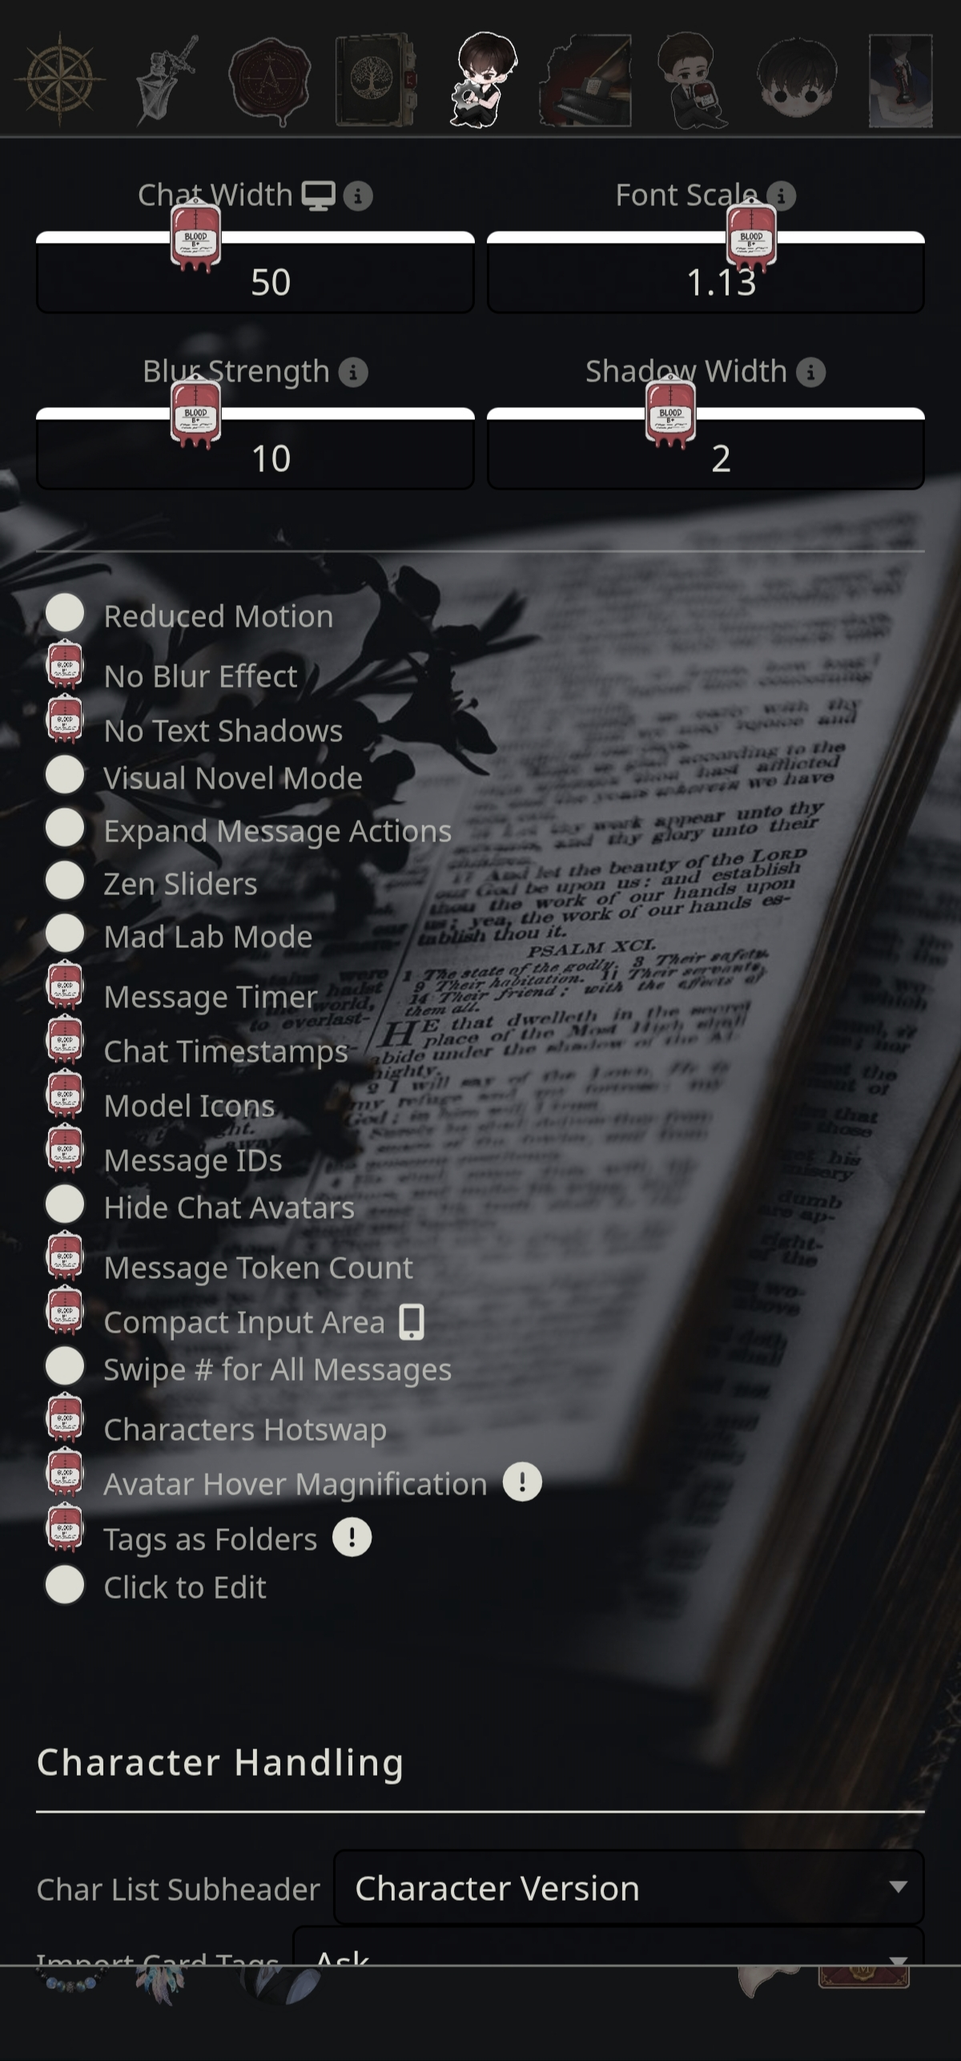
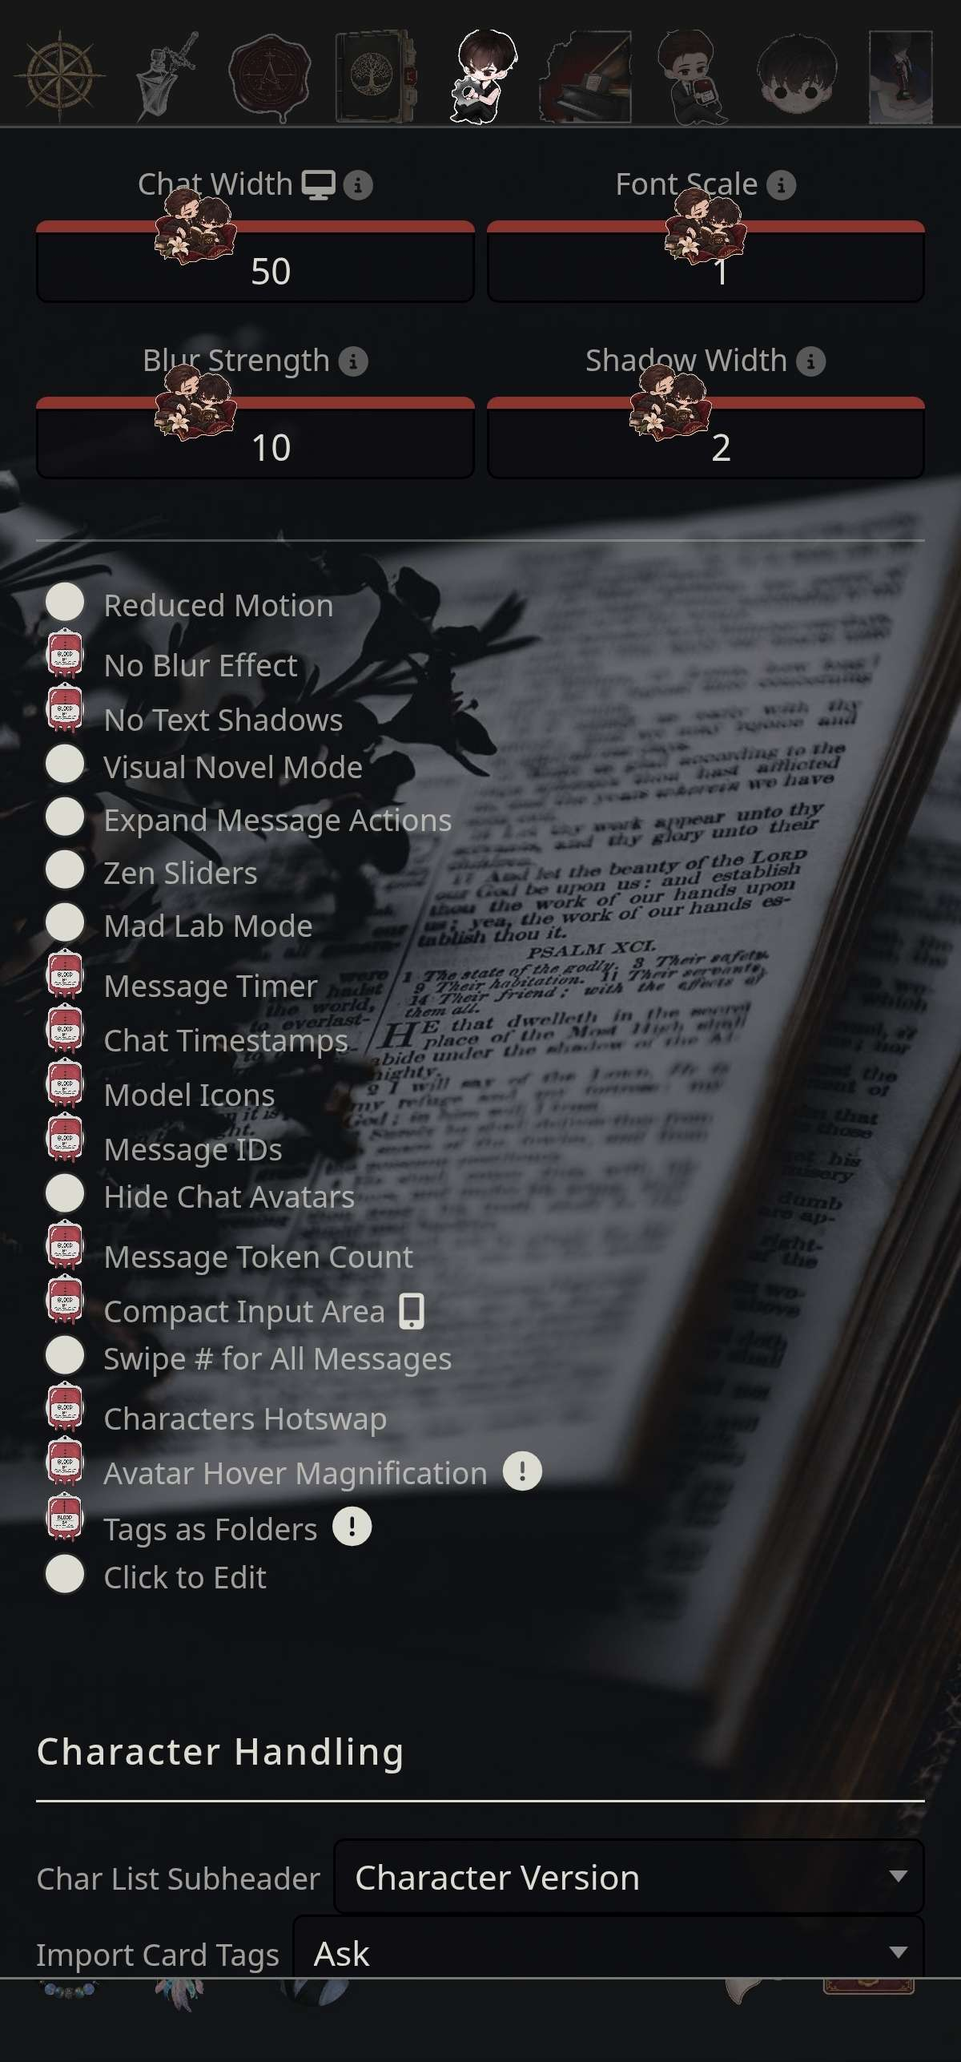
add more colour setting in panel & etc
- colour setting
- gap variable for input area
- example screenshot

diff --git a/index.js b/index.js
@@ -37,20 +37,44 @@ const DEFAULT_LOOK = {
     customBgColor2: 'rgba(255, 255, 255, 0.05)',
     customTopBarColor: 'rgba(20, 20, 20, 0.83)',
     'Drawer-iconColor': 'rgba(255, 255, 255, 0.8)',
-    sheldBackgroundColor: 'rgba(0, 0, 0, 0.2)',
+    SmartThemeBodyColor: 'rgba(220, 220, 210, 1)',
+    arChatTextColor: 'rgba(220, 220, 210, 1)',
+    SmartThemeEmColor: 'rgba(145, 145, 145, 1)',
+    SmartThemeQuoteColor: 'rgba(146, 151, 196, 1)',
+    SmartThemeUserMesBlurTintColor: 'rgba(30, 30, 30, 0.9)',
+    SmartThemeBotMesBlurTintColor: 'rgba(30, 30, 30, 0.9)',
     customWhisperAvatarWidth: '50%',
     customWhisperAvatarAlign: 'top',
     hideAvatarBorder: false,
 };
+/* [key, label, hint, settings tab]. The SmartTheme* keys replace the same
+   colours in SillyTavern's Theme Colors while the theme is on (those rows are
+   hidden there). arChatTextColor is the chat's own copy of the main text colour. */
 const LOOK_COLORS = [
-    ['customThemeColor', 'Primary Theme Color', 'Highlights and accents across the interface'],
-    ['customThemeColor2', 'Secondary Theme Color', 'A second accent for special highlights'],
-    ['customBgColor1', 'Main Background Color', 'Menus and buttons'],
-    ['customBgColor2', 'Secondary Background Color', 'Quieter menus and buttons'],
-    ['customTopBarColor', 'Top Bar Color', 'The bar of icons at the top'],
-    ['Drawer-iconColor', 'Icon Color', 'Top bar and message box icons that have no picture'],
-    ['sheldBackgroundColor', 'Chat Background Color', 'The panel behind the chat messages'],
+    ['customThemeColor', 'Primary Theme Color', 'Highlights and accents across the interface', 'ui'],
+    ['customThemeColor2', 'Secondary Theme Color', 'A second accent for special highlights', 'ui'],
+    ['customBgColor1', 'Main Background Color', 'Menus and buttons', 'ui'],
+    ['customBgColor2', 'Secondary Background Color', 'Quieter menus and buttons', 'ui'],
+    ['customTopBarColor', 'Top Bar Color', 'The bar of icons at the top', 'ui'],
+    ['Drawer-iconColor', 'Icon Color', 'Top bar and message box icons that have no picture', 'ui'],
+    ['SmartThemeBodyColor', 'Interface Text', 'Text in menus, panels and popups', 'ui'],
+    ['arChatTextColor', 'Chat Text', 'Normal text in chat messages', 'chat'],
+    ['SmartThemeEmColor', 'Italic Text', '*Actions* and other italic text', 'chat'],
+    ['SmartThemeQuoteColor', 'Quote Text', '"Speech" in quotation marks', 'chat'],
+    ['SmartThemeUserMesBlurTintColor', 'User Message', 'The box behind your messages', 'chat'],
+    ['SmartThemeBotMesBlurTintColor', 'AI Message', "The box behind the character's messages", 'chat'],
 ];
+/* These colours used to come from SillyTavern's Theme Colors. When a preset
+   has no value for one (first run after updating, or an older preset), the
+   user's own SillyTavern colour is used instead of the built-in default. */
+const FROM_ST = {
+    SmartThemeBodyColor: 'main_text_color',
+    arChatTextColor: 'main_text_color',
+    SmartThemeEmColor: 'italics_text_color',
+    SmartThemeQuoteColor: 'quote_text_color',
+    SmartThemeUserMesBlurTintColor: 'user_mes_blur_tint_color',
+    SmartThemeBotMesBlurTintColor: 'bot_mes_blur_tint_color',
+};
 const WHISPER_ALIGN = ['top', 'center', 'bottom'];
 const PRESET_FILE_PREFIX = '[AR] ';
 
@@ -81,7 +105,7 @@ function getSettings() {
     if (!s.presets || typeof s.presets !== 'object' || Array.isArray(s.presets)) s.presets = {};
     delete s.presets[DEFAULT_PRESET]; // the built-in one always comes from the code
     if (s.activePreset !== DEFAULT_PRESET && !Object.hasOwn(s.presets, s.activePreset)) s.activePreset = DEFAULT_PRESET;
-    s.look = cleanLook(s.look, DEFAULT_LOOK);
+    s.look = cleanLook(s.look, lookBase());
     return s;
 }
 
@@ -415,6 +439,8 @@ async function exportToastStyle() {
      --function-control-icon  checked checkbox + slider thumb (one picture for both)
      --function-slider-icon   slider thumb only    (wins over the shared one)
      --function-checkbox-icon checked checkbox only (wins over the shared one)
+     --function-slider-track  slider track colour (white if unset)
+     --input-icon-gap         space between message box buttons (12px if unset)
      --topbar-icon-*          the nine top-bar icons
      --input-icon-*           the buttons around the message box
 
@@ -458,6 +484,18 @@ function syncCustomVars() {
         const source = has(own) ? own : (shared ? '--function-control-icon' : '');
         document.body.classList.toggle(cls, on && !!source);
         const wanted = on && source ? `var(${source})` : '';
+        if (document.body.style.getPropertyValue(target) !== wanted) {
+            if (wanted) document.body.style.setProperty(target, wanted);
+            else document.body.style.removeProperty(target);
+        }
+    }
+
+    // slider track colour + message box button gap: only when set and not "none"
+    for (const [own, target] of [
+        ['--function-slider-track', '--mg-slider-track'],
+        ['--input-icon-gap', '--mg-input-gap'],
+    ]) {
+        const wanted = on && has(own) ? `var(${own})` : '';
         if (document.body.style.getPropertyValue(target) !== wanted) {
             if (wanted) document.body.style.setProperty(target, wanted);
             else document.body.style.removeProperty(target);
@@ -787,6 +825,19 @@ function cleanLook(source, base) {
     return look;
 }
 
+/* Where a missing value comes from: the built-in default, or for the FROM_ST
+   colours the user's own SillyTavern colour. */
+function lookBase() {
+    const base = Object.assign({}, DEFAULT_LOOK);
+    const power = SillyTavern.getContext().powerUserSettings;
+    if (!power) return base;
+    for (const [key, name] of Object.entries(FROM_ST)) {
+        const value = safeCssValue(power[name], null);
+        if (value) base[key] = value;
+    }
+    return base;
+}
+
 function allPresets() {
     return Object.assign({ [DEFAULT_PRESET]: DEFAULT_LOOK }, getSettings().presets);
 }
@@ -838,7 +889,7 @@ function loadPreset(name, quiet) {
     if (!Object.hasOwn(presets, name)) return false;
     const s = getSettings();
     s.activePreset = name;
-    s.look = cleanLook(presets[name], DEFAULT_LOOK);
+    s.look = cleanLook(presets[name], lookBase());
     save();
     applyLook();
     syncSettingsUI();
@@ -911,7 +962,7 @@ async function importPresetFile(file) {
     if (Object.hasOwn(getSettings().presets, name) && !(await confirmBox(`A preset named "${name}" already exists. Replace it?`))) return;
 
     const s = getSettings();
-    s.presets[name] = cleanLook(data.settings, DEFAULT_LOOK);
+    s.presets[name] = cleanLook(data.settings, lookBase());
     save();
     loadPreset(name, true);
     toast('success', `Added preset "${name}".`);
@@ -1048,30 +1099,28 @@ function addSettingsPanel() {
                     <input type="file" id="mg_preset_file" accept=".json,application/json" hidden>
                     <div id="mg_preset_state" class="mg-set-state" hidden></div>
 
-                    <div class="mg-set-row mg-set-avatar">
-                        <label for="mg_whisper_width">Avatar width</label>
-                        <input type="text" id="mg_whisper_width" class="text_pole" placeholder="50%" autocomplete="off">
-                        <label for="mg_whisper_align">Position</label>
-                        <select id="mg_whisper_align" class="text_pole">
-                            <option value="top">Top</option>
-                            <option value="center">Center</option>
-                            <option value="bottom">Bottom</option>
-                        </select>
+                    <div class="mg-tabs" role="tablist">
+                        <div class="mg-tab menu_button" data-tab="ui" role="tab" tabindex="0">Interface</div>
+                        <div class="mg-tab menu_button" data-tab="chat" role="tab" tabindex="0">Chat</div>
                     </div>
-                    <label class="checkbox_label" for="mg_avatar_border"><input type="checkbox" id="mg_avatar_border"> <span>Hide avatar border</span></label>
 
-                    <div class="mg-set-colors">
-                        ${LOOK_COLORS.map(([key, label, hint]) => `
-                        <div class="mg-color" data-look="${key}">
-                            <b>${label}</b>
-                            <small>${hint}</small>
-                            <div class="mg-color-row">
-                                <toolcool-color-picker class="mg-color-pick" button-width="2.4rem" button-height="2.4rem" button-padding="0" color="${esc(DEFAULT_LOOK[key])}"></toolcool-color-picker>
-                                <input type="text" class="text_pole mg-color-hex" maxlength="60" spellcheck="false" autocapitalize="off" autocomplete="off" aria-label="${label}">
-                                <label class="mg-color-alpha"><span>Opacity</span><input type="range" min="0" max="100" step="1"></label>
-                                <span class="mg-color-num"></span>
-                            </div>
-                        </div>`).join('')}
+                    <div class="mg-tab-panel" data-panel="ui">
+                        <div class="mg-set-colors">${colorRows('ui')}</div>
+                    </div>
+
+                    <div class="mg-tab-panel" data-panel="chat">
+                        <div class="mg-set-row mg-set-avatar">
+                            <label for="mg_whisper_width">Avatar width</label>
+                            <input type="text" id="mg_whisper_width" class="text_pole" placeholder="50%" autocomplete="off">
+                            <label for="mg_whisper_align">Position</label>
+                            <select id="mg_whisper_align" class="text_pole">
+                                <option value="top">Top</option>
+                                <option value="center">Center</option>
+                                <option value="bottom">Bottom</option>
+                            </select>
+                        </div>
+                        <label class="checkbox_label" for="mg_avatar_border"><input type="checkbox" id="mg_avatar_border"> <span>Hide avatar border</span></label>
+                        <div class="mg-set-colors">${colorRows('chat')}</div>
                     </div>
 
                     <div class="mg-set-note">
@@ -1111,8 +1160,8 @@ function addSettingsPanel() {
         toast('info', 'This is how notifications look now.');
     });
 
-    const onTap = (id, fn) => {
-        const el = $(id);
+    const onTap = (target, fn) => {
+        const el = typeof target === 'string' ? $(target) : target;
         el.addEventListener('click', fn);
         el.addEventListener('keydown', (event) => {
             if (event.key === 'Enter' || event.key === ' ') { event.preventDefault(); fn(); }
@@ -1225,7 +1274,37 @@ function addSettingsPanel() {
     $('mg_whisper_align').addEventListener('change', (event) => setLook('customWhisperAvatarAlign', event.target.value));
     $('mg_avatar_border').addEventListener('change', (event) => setLook('hideAvatarBorder', event.target.checked));
 
+    for (const el of document.querySelectorAll('#mg_settings .mg-tab')) onTap(el, () => showTab(el.dataset.tab));
+    showTab(openTab);
+
     syncSettingsUI();
+}
+
+/* The colour rows of one settings tab. */
+function colorRows(tab) {
+    return LOOK_COLORS.filter(([, , , t]) => t === tab).map(([key, label, hint]) => `
+                        <div class="mg-color" data-look="${key}">
+                            <b>${label}</b>
+                            <small>${esc(hint)}</small>
+                            <div class="mg-color-row">
+                                <toolcool-color-picker class="mg-color-pick" button-width="2.4rem" button-height="2.4rem" button-padding="0" color="${esc(DEFAULT_LOOK[key])}"></toolcool-color-picker>
+                                <input type="text" class="text_pole mg-color-hex" maxlength="60" spellcheck="false" autocapitalize="off" autocomplete="off" aria-label="${label}">
+                                <label class="mg-color-alpha"><span>Opacity</span><input type="range" min="0" max="100" step="1"></label>
+                                <span class="mg-color-num"></span>
+                            </div>
+                        </div>`).join('');
+}
+
+/* Interface / Chat tabs in the settings panel. The open tab is kept until reload. */
+let openTab = 'ui';
+function showTab(tab) {
+    openTab = tab;
+    for (const el of document.querySelectorAll('#mg_settings .mg-tab')) {
+        const on = el.dataset.tab === tab;
+        el.classList.toggle('mg-tab-on', on);
+        el.setAttribute('aria-selected', String(on));
+    }
+    for (const el of document.querySelectorAll('#mg_settings .mg-tab-panel')) el.hidden = el.dataset.panel !== tab;
 }
 
 const lookSync = { busy: false, timer: 0 };
@@ -1259,7 +1338,7 @@ function syncLookState() {
     if (!$('mg_settings')) return;
     const s = getSettings();
     const isDefault = s.activePreset === DEFAULT_PRESET;
-    const dirty = !sameLook(s.look, cleanLook(allPresets()[s.activePreset], DEFAULT_LOOK)); // presets saved before a value existed get its default
+    const dirty = !sameLook(s.look, cleanLook(allPresets()[s.activePreset], lookBase())); // presets saved before a value existed get its default
 
     $('mg_preset_save').classList.toggle('mg-locked', isDefault || !dirty);
     $('mg_preset_delete').classList.toggle('mg-locked', isDefault);

diff --git a/style.css b/style.css
@@ -1068,6 +1068,13 @@ body.mg-tools #persona_pagination_container {
 .mg-color-alpha > input { width: 100%; margin: 0; }
 .mg-color-num { flex: none; width: 2.2em; text-align: right; }
 
+/* Interface / Chat tabs */
+.mg-tabs { display: flex; gap: 6px; margin-top: 4px; }
+.mg-tab { flex: 1 1 0; margin: 0; justify-content: center; text-align: center; opacity: .55; }
+.mg-tab.mg-tab-on { opacity: 1; border-color: var(--customThemeColor); box-shadow: inset 0 -2px 0 var(--customThemeColor); }
+.mg-tab-panel { display: flex; flex-direction: column; gap: 8px; }
+.mg-tab-panel[hidden] { display: none; }
+
 /* chat avatar: width + position share one row */
 .mg-set-avatar > input[type="text"] { flex: 0 0 4.2em; text-align: center; }
 
@@ -1195,7 +1202,7 @@ body.mg-panel-bg .drawer-content:not(#sheld):not(#chat) :is(
 
 /* track: colour from Custom CSS (--function-slider-track), white if unset */
 body.mg-panel-slider .drawer-content:not(#sheld):not(#chat) input[type="range"] {
-    background: var(--function-slider-track, #ffffff) !important;
+    background: var(--mg-slider-track, #ffffff) !important;
     box-shadow: none !important;
     filter: none !important;
 }
@@ -1387,6 +1394,11 @@ body.mg-topbar #top-settings-holder > .drawer > .drawer-toggle > .drawer-icon {
 
 /* ----- message box buttons ----- */
 
+/* space between the buttons, only when they use pictures */
+:is(#leftSendForm, #rightSendForm):has(.mg-icon) {
+    gap: var(--mg-input-gap, 12px); /* --input-icon-gap from Custom CSS, via index.js */
+}
+
 /* clear the button's own background and transform */
 :is(#options_button, #extensionsMenuButton, #mes_impersonate, #send_but, #mes_stop).mg-icon {
     background-image: none !important;
@@ -1563,6 +1575,17 @@ body:has(.openai-tab-buttons) {
     width: fit-content;
 }
 
+/* Prompt list buttons (remove, edit, on/off): SillyTavern dims them to 0.4,
+   which is hard to see over a panel picture. Brighter, with a darker outline;
+   only the buttons change, not the background. */
+body.mg-tools #completion_prompt_manager #completion_prompt_manager_list li.completion_prompt_manager_prompt span span span {
+    opacity: 0.7;
+    filter: drop-shadow(0 0 1px rgba(0, 0, 0, 0.9)) drop-shadow(0 0 3px rgba(0, 0, 0, 0.7));
+}
+body.mg-tools #completion_prompt_manager #completion_prompt_manager_list li.completion_prompt_manager_prompt span span span:hover {
+    opacity: 1;
+}
+
 
 /* =====================================================
    12. SMALL FIXES — preset panel hint, Vertex heading
@@ -1602,4 +1625,29 @@ body.mg-tools #vertexai_express_config > h4 > a {
     body.mg-tools :where(#top-bar, #top-settings-holder, .drawer-content, #form_sheld, dialog, .popup, #dialogue_popup, #character_popup, #select_chat_popup, #floatingPrompt, #cfgConfig, #logprobsViewer, #completion_prompt_manager_popup, #options, #extensionsMenu) input[type="range"] { pointer-events: none; }
     body.mg-tools :where(#top-bar, #top-settings-holder, .drawer-content, #form_sheld, dialog, .popup, #dialogue_popup, #character_popup, #select_chat_popup, #floatingPrompt, #cfgConfig, #logprobsViewer, #completion_prompt_manager_popup, #options, #extensionsMenu) input[type="range"]::-webkit-slider-thumb { pointer-events: auto; }
     body.mg-tools :where(#top-bar, #top-settings-holder, .drawer-content, #form_sheld, dialog, .popup, #dialogue_popup, #character_popup, #select_chat_popup, #floatingPrompt, #cfgConfig, #logprobsViewer, #completion_prompt_manager_popup, #options, #extensionsMenu) input[type="range"]::-moz-range-thumb { pointer-events: auto; }
+}
+
+
+/* =====================================================
+   CHAT TEXT + COLOURS TAKEN FROM SILLYTAVERN'S THEME COLORS
+   -----------------------------------------------------
+   Main text, italics, quotes and the user / AI message boxes are set in the
+   Chat and Interface tabs of the Asphodel Reverie panel, so their rows in
+   SillyTavern's Theme Colors are hidden while the theme is on.
+   Inside the chat, the main text colour is swapped for the Chat Text colour,
+   so chat and interface text can differ.
+   ===================================================== */
+body.mg-tools #chat {
+    --SmartThemeBodyColor: var(--arChatTextColor, rgba(220, 220, 210, 1)) !important;
+    color: var(--SmartThemeBodyColor);
+}
+
+body.mg-tools #color-picker-block > .flex-container:has(> :is(
+    #main-text-color-picker,
+    #italics-color-picker,
+    #quote-color-picker,
+    #user-mes-blur-tint-color-picker,
+    #bot-mes-blur-tint-color-picker
+)) {
+    display: none !important;
 }

diff --git a/README.md b/README.md
@@ -23,12 +23,12 @@ Without a theme that sets pictures, you get the same layout with normal icons (i
 | --- | --- |
 | Picture icons in the top bar and around the message box | **Your UI theme** (Custom CSS) |
 | Background picture of the side panels | **Your UI theme** (Custom CSS) |
-| Picture on the slider handle and the ticked checkbox | **Your UI theme** (Custom CSS) |
+| Picture on the slider handle and the ticked checkbox, slider track colour | **Your UI theme** (Custom CSS) |
 | Logo on the welcome screen | **Your UI theme** (Custom CSS) |
-| Text colours, chat tint, blur, fonts | **Your UI theme** (the normal ST theme settings) |
+| Chat tint, blur, fonts, underline, shadow and border colours | **Your UI theme** (ST theme settings) |
 | Character and persona pictures | The cards and personas you have |
 | Layout of every page, card designs, icon sizes and positions | **Asphodel Reverie** |
-| Accent colours, top bar colour, icon colour, avatar settings | **Asphodel Reverie** (theme preset) |
+| Accent, background, top bar and icon colours; interface and chat text, italic and quote colours; user and AI message boxes; avatar settings | **Asphodel Reverie** (theme preset) |
 
 ## Screenshots
 
@@ -59,7 +59,8 @@ All taken on a phone, with my theme.
 
 - **Picture slots**: 9 top bar icons, 5 message box icons, the panel background, the slider handle and the ticked checkbox. Each slot is one line in Custom CSS.
 - **Nothing breaks when a slot is empty.** A button without a picture keeps its normal icon and takes the Icon Color from the settings.
-- **Theme presets**: accent colours, background colours, top bar colour, icon colour, avatar width and position, avatar border. Presets can be saved, exported and imported.
+- **Theme presets**, in two tabs. **Interface**: accent colours, background colours, top bar colour, icon colour, interface text. **Chat**: avatar width and position, avatar border, chat text, italic text, quote text, user and AI message boxes. Interface and chat text can be different colours. Presets can be saved, exported and imported.
+- **One place for text colours.** While the theme is on, Main Text, Italics Text, Quote Text, User Message and AI Message are set in Asphodel Reverie, so those rows are hidden in SillyTavern's Theme Colors.
 - **Presets follow the UI theme**: a preset with the same name as a UI theme is loaded when you switch to that theme.
 - **Notification styles**: choose a style for SillyTavern's pop-up notifications, or write, import and export your own CSS.
 
@@ -163,6 +164,7 @@ To share a theme, give people two files: the UI theme `.json` and the exported p
 | `--input-icon-impersonate` | Message box: Impersonate |
 | `--input-icon-send` | Message box: Send |
 | `--input-icon-stop` | Message box: Stop |
+| `--input-icon-gap` | Space between the message box buttons that have pictures. Fill a size, not a picture:  12px if left at `none`. |
 
 The welcome screen logo is set differently. In the template, find `.welcomeHeaderLogo` and replace `normal` with `url("your image link")`.
 
@@ -183,9 +185,8 @@ Everything is in **Extensions** → **Asphodel Reverie**.
 | Grid columns | 2 to 6 columns for the library and persona grids |
 | Notifications | The style of pop-up notifications. "Basic" is the default; "None" is ST's own look |
 | Theme preset | Save, load, import and export the values below |
-| Avatar width, Position | How the avatar sits behind the message header |
-| Hide avatar border | Removes the ring around avatars |
-| Colours | Primary and secondary theme colour, main and secondary background colour, top bar colour, icon colour, chat background colour |
+| Interface tab | Primary and secondary theme colour, main and secondary background colour, top bar colour, icon colour, interface text colour |
+| Chat tab | Avatar width and position, avatar border, chat text, italic text and quote text colour, user and AI message box colour |
 
 ## Good to know
 
